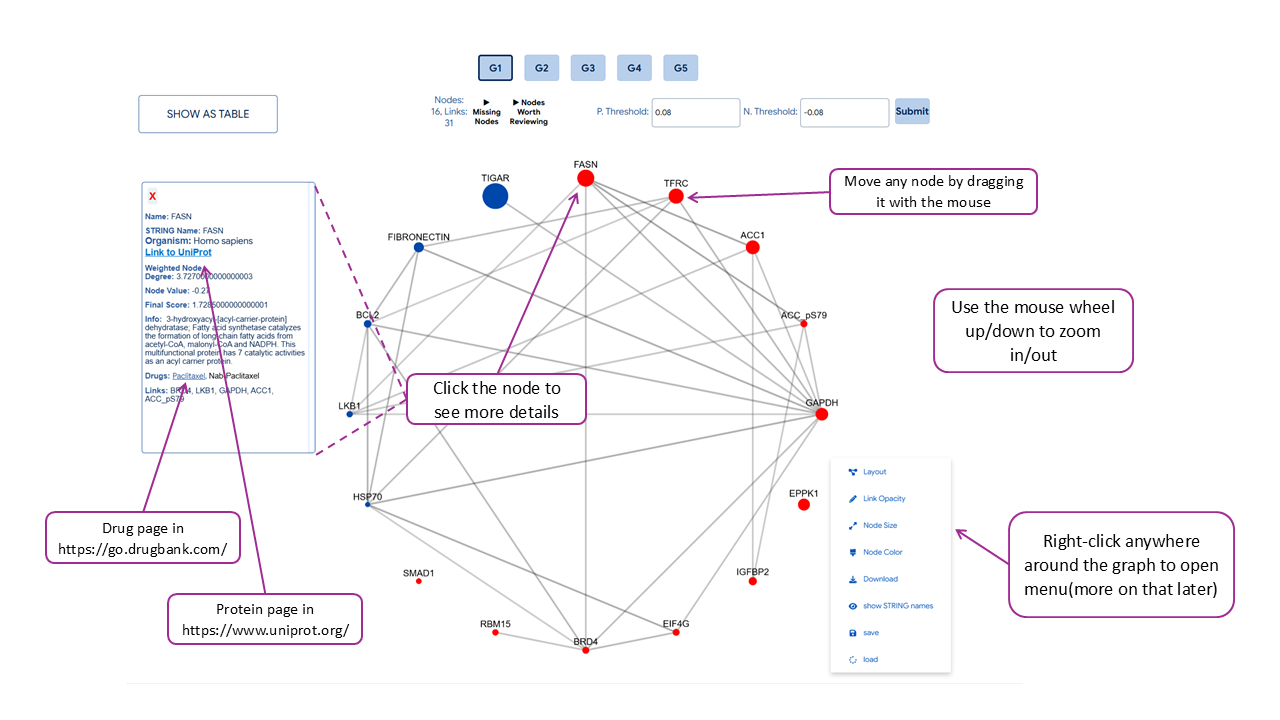
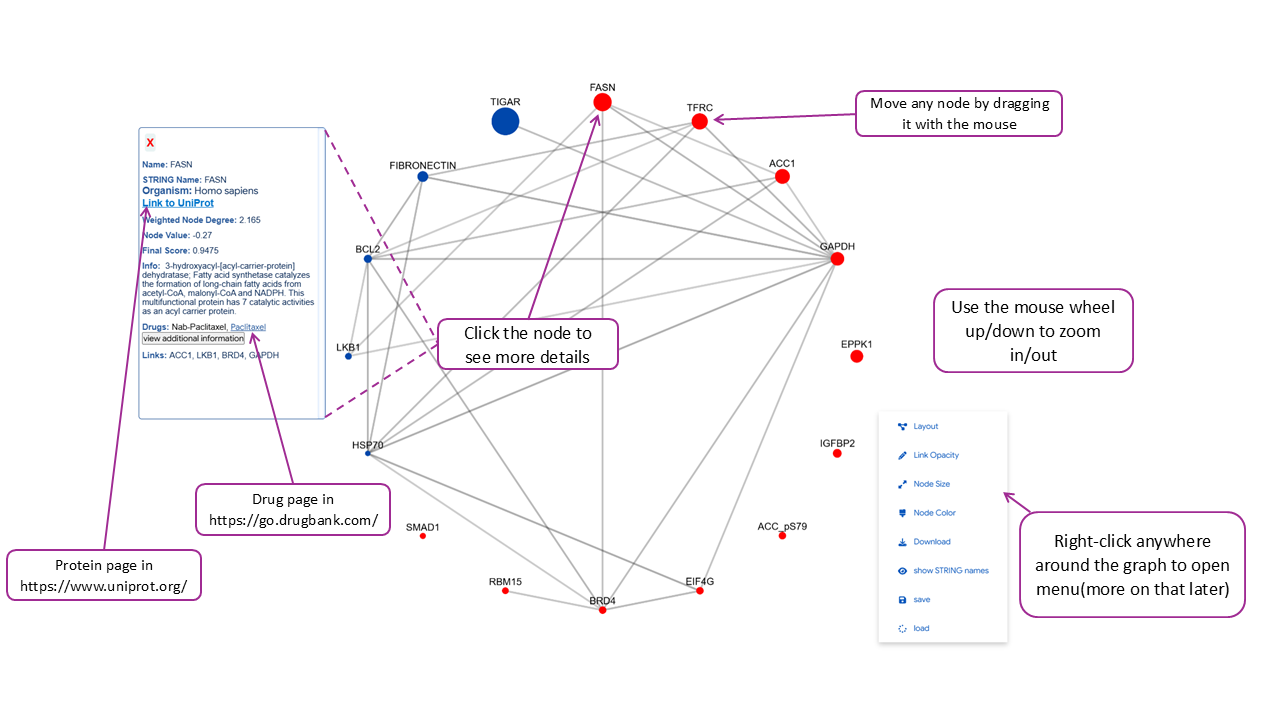
tutorial and explanation updates

diff --git a/frontend/src/pages/Tutorial.tsx b/frontend/src/pages/Tutorial.tsx
@@ -4,6 +4,7 @@ import example_rows from "../assets/tutorial images/example_rows.png";
 import set_params from "../assets/tutorial images/set_params.png";
 import graph from "../assets/tutorial images/graph.png";
 import graph_bar from "../assets/tutorial images/graph_bar.png";
+import drugs_info from "../assets/tutorial images/drugs_info.png";
 import others from "../assets/tutorial images/others.png";
 import protein_names from "../assets/tutorial images/protein_names.png";
 import table from "../assets/tutorial images/table.png";
@@ -86,13 +87,6 @@ const Tutorial: FC = () => {
             Each row should correspond to a protein or gene, and each column should represent a feature.
             The file must contain no more than {MAX_LINES_PER_FILE} rows. One column should contain protein or gene identifiers, while additional columns should contain numeric values representing gene/protein scores or quantitative metrics.
           </p>
-          
-            {/* where each row represents a protein/gene and the columns are features to be analysed. 
-            The file should contain a column of protein/gene names as well as additional column(s) of numeric values. 
-            These numeric values represent gene/protein scores or quantitative metrics—such as loadings obtained from Principal Component Analysis (PCA), 
-            weights from information-theoretic analyses, or simple fold changes. The first line is the header, 
-            specifying column names. Note that the names of the numeric columns should start with the same prefix.
-          </p> */}
           <p className="t-p">
             The first row must contain column headers.
             Numeric columns intended for analysis must share a common prefix.
@@ -101,13 +95,6 @@ const Tutorial: FC = () => {
             An <button className="btn--here" onClick={downloadExampleFile}>example file</button>
             &nbsp;is provided (adapted from Vasudevan et al., npj Precision Oncology, 2021, Supplementary Data 1). 
             In this example, the gene identifier column is labeled “UID”, and the numeric columns begin with the prefix “G”, followed by an index.
-            {/* &nbsp;you can find an example file (fetched from Vasudevan et al., npj Precision Oncology, 2021, Supplementary Data 1). 
-            For example, here are 10 rows of the example file, 
-            where the gene column is named “UID” and the header of the numerical columns start with “G”, followed by some index. In this specific example, 
-            the columns labeled "G" represent the weights of proteins participating in computed patterns as dictated by 
-            the information-theoretic analysis presented in Vasudevan et al. 
-            However, this format is flexible: the "G" columns can be replaced by any other scores, 
-            coefficients, or fold changes, depending on the specific method the user employs to find co-expression patterns. */}
           </p>
           <p className="t-p">
             In this dataset, the G columns represent protein weights derived from the information-theoretic analysis described in Vasudevan et al. 
@@ -117,7 +104,6 @@ const Tutorial: FC = () => {
             <img className="t-img" src={example_rows} alt="example_rows" />
           </a>
         </div>
-        {/* Setting parameters and thresholds DIV */}
         <div>
           <h2 className="t-h2">Setting parameters and thresholds </h2>
           <p className="t-p">In this step the user should specify:</p>
@@ -185,24 +171,10 @@ const Tutorial: FC = () => {
             Edges are derived from STRING, and edge width represents the probability of a protein-protein interaction.
             Results can be viewed and downloaded in either a tabular or network format.
             The network view provides an interactive visualization, allowing users to zoom, drag nodes, and explore the network structure.
-            {/* The resulting network comprises nodes representing the input score
-            values, where node size is proportional to the input protein score
-            value. The edges are derived from STRING-db, with edge width
-            indicating the probability of a protein-protein interaction. The
-            information can be viewed and downloaded in either a tabular or network format.
-            The network format provides an interactive visualization of the network online, 
-            allowing for zooming, dragging, and more complex manipulation of the
-            network. */}
           </p>
           <h3 className="t-h3">Graph representation</h3>
           <p className="t-p">
             The graphical representation displays a network in which each node represents a protein.
-            {/* Node size is directly proportional to the input
-            value, and node color indicates the sign of the value (blue for positive
-            values and red for negative values). The edges connecting each pair of
-            proteins represent functional protein-protein interactions, with the
-            width of each edge corresponding to the probability of such an
-            interaction. */}
           </p>
           <ul>
             <li className="t-li">Node size is proportional to the input score value.</li>
@@ -217,12 +189,6 @@ const Tutorial: FC = () => {
           </a>
           <p className="t-p">
             In the illustrated example, multiple protein interactions are shown. For example:, 
-            
-            {/* TIGAR is represented with a positive, sizeable value (indicated by the blue color) 
-            and interacts with LKB1, which also has a positive but smaller value, as well as with GAPDH, 
-            which is represented by a negative value (indicated by the red color). 
-            Additionally, it can be inferred that ACC1 interacts with both BCL2 and FASN, with BCL2 demonstrating 
-            a higher likelihood of interaction, as evidenced by the thicker edge connecting the two proteins. */}
           </p>
           <ul>
             <li className="t-li">TIGAR appears with a large positive value (blue node) and interacts with GAPDH, which has a smaller negative value.</li>
@@ -239,11 +205,18 @@ const Tutorial: FC = () => {
               <li className="t-li">Nodes worth reviewing - A list of nodes in the graph that the user might have missed validating their accuracy, because they were not inserted manually</li>
             </ol>
           </p>
+          <a href={drugs_info} target="_blank" rel="noopener noreferrer">
+            <img className="t-img" src={drugs_info} alt="drugs_info"/>
+          </a>
+          <p className="t-p">
+            After identifying a key node of interest, open the full drug details list to explore potential drug combinations.<br/>
+          </p>
           <p className="t-p">
             The right-click context menu in the graph visualization allows users to modify visual properties and customize the appearance of the network.
           </p>
           <p className="t-p">
             Multiple layout algorithms are available to organize the graph and reveal structural patterns.<br/>
+            These layouts help identify biologically relevant proteins in each network, that may guide the selection of effective drug combinations.<br/><br/>
             Presented below are three fundamental options that are broadly applicable to any graph.<br/>
           </p>
           <a href={Menu_Geometric_Layout} target="_blank" rel="noopener noreferrer">
@@ -267,9 +240,6 @@ const Tutorial: FC = () => {
             Additionally, for users who prefer a more complex approach, the tool also provides a custom clustering algorithm, called LCSL (Layered Cluster Spiral Layout).
             Unlike traditional layouts that rely mainly on link counts, LCSL incorporates link weights when identifying clusters. Nodes within each cluster are arranged in a spiral pattern based on the weighted connectivity of each node.
             This layout is designed to facilitate the identification of important proteins and their associated therapeutic targets.
-            {/* we provide a novel, hand-crafted cluster finding algorithm - named LCSL(Layered Cluster Spiral Layout) - 
-            which utilizes the link weights(as opposed to link counts like previous layouts) to identify clusters and organize each cluster in a spiral pattern, 
-            taking into account the weights of each node's links at every step. This algorithm is designed to facilitate the discovery and prioritization of key proteins and their respective drugs for optimal therapeutic effect. */}
           </p>
           <p className="t-p">
             For users who prefer a simpler apprach, we also provide a Random layout, which randomly places the nodes on the graph.

diff --git a/frontend/src/explanations/GraphE.tsx b/frontend/src/explanations/GraphE.tsx
@@ -42,7 +42,11 @@ const GraphExplanation: FC = () => {
         </li>
         <li className="must-item">
           <i className="fa fa-info" style={{ fontSize: "25px" }} />
-          Click a node to view its details, and access related resources(UniProt, drugBank)
+          Click a node to view its details, and access related resources (UniProt, drugBank)
+        </li>
+        <li className="must-item">
+          <i className="fa fa-info" style={{ fontSize: "25px" }} />
+          Click the button at the end of the drug list in the node details to view additional information about drugs targeting the selected node.
         </li>
         <li className="must-item">
           <i className="fa fa-question-circle-o" style={{ color: "black" }} />

diff --git a/frontend/src/components/Panel.tsx b/frontend/src/components/Panel.tsx
@@ -37,7 +37,7 @@ const Panel: FC<IPanelProps> = ({ node, drugs, organism, onClickClose }) => {
 
     drugsComponent.push(
       <button onClick={() => setIsDrugDetailModalOpen(true)}>
-        open full detail list
+        view additional information
       </button>
     )
     return drugsComponent;
